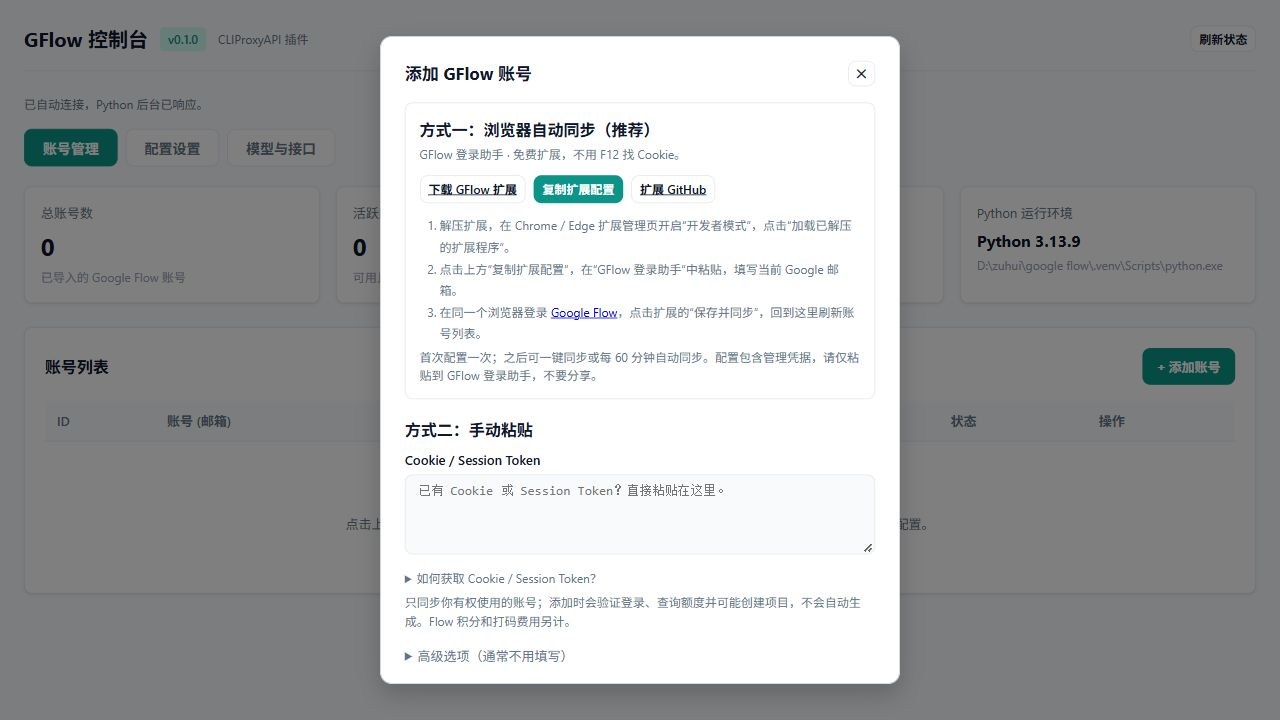
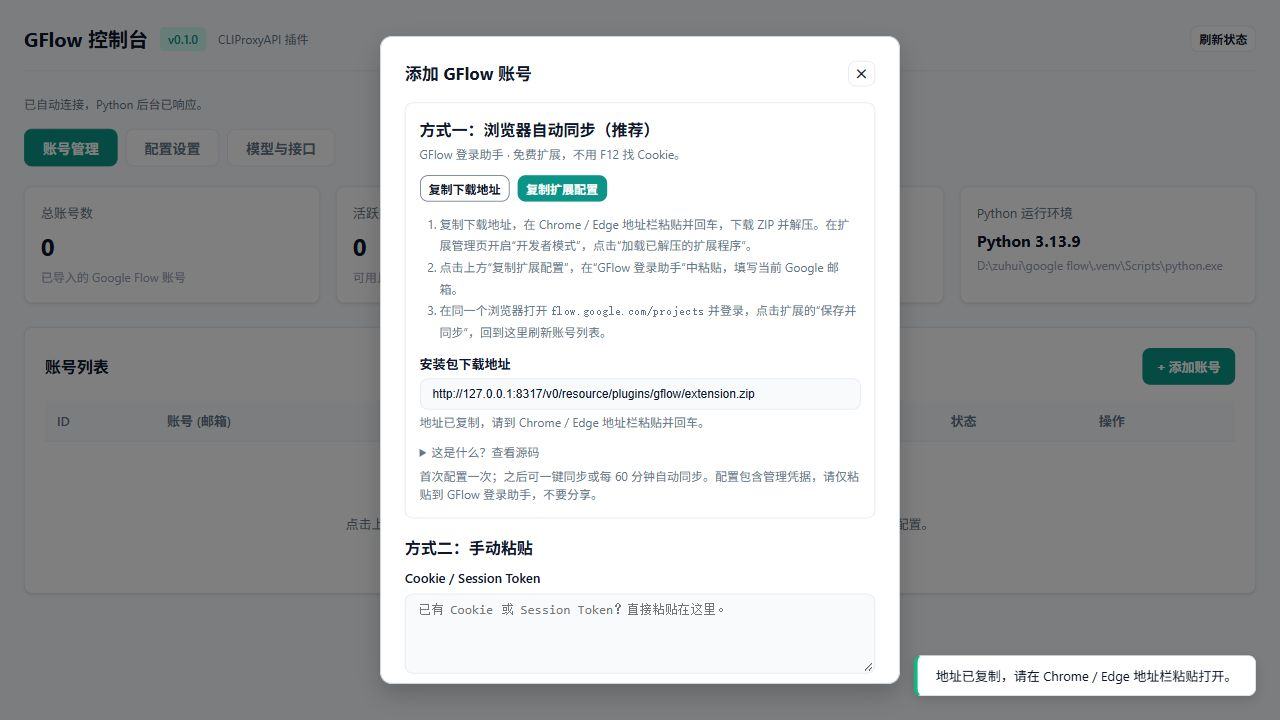
fix: make extension setup usable in embedded plugin windows

Changed region(s): [[0.3125, 0.2444, 0.6875, 0.7028], [0.3125, 0.7333, 0.6875, 0.9167], [0.6875, 0.8861, 1.0, 0.9778]]

diff --git a/static/manage.html b/static/manage.html
@@ -444,15 +444,25 @@
         <strong>方式一：浏览器自动同步（推荐）</strong>
         <p class="form-desc">GFlow 登录助手 · 免费扩展，不用 F12 找 Cookie。</p>
         <p style="display:flex;flex-wrap:wrap;gap:8px;margin:12px 0;">
-          <a class="btn btn-secondary btn-sm" href="/v0/resource/plugins/gflow/extension.zip" download>下载 GFlow 扩展</a>
+          <button class="btn btn-secondary btn-sm" type="button" onclick="copyExtensionLink(false)">复制下载地址</button>
           <button class="btn btn-primary btn-sm" type="button" onclick="copyExtensionConfig()">复制扩展配置</button>
-          <a class="btn btn-secondary btn-sm" href="https://github.com/daodeqing/cpa-plugin-GFlow/tree/main/browser-extension" target="_blank" rel="noopener noreferrer">扩展 GitHub</a>
         </p>
         <ol class="form-desc" style="padding-left:20px;line-height:1.8;">
-          <li>解压扩展，在 Chrome / Edge 扩展管理页开启“开发者模式”，点击“加载已解压的扩展程序”。</li>
+          <li>复制下载地址，在 Chrome / Edge 地址栏粘贴并回车，下载 ZIP 并解压。在扩展管理页开启“开发者模式”，点击“加载已解压的扩展程序”。</li>
           <li>点击上方“复制扩展配置”，在“GFlow 登录助手”中粘贴，填写当前 Google 邮箱。</li>
-          <li>在同一个浏览器登录 <a href="https://flow.google.com/projects" target="_blank" rel="noopener noreferrer">Google Flow</a>，点击扩展的“保存并同步”，回到这里刷新账号列表。</li>
+          <li>在同一个浏览器打开 <code>flow.google.com/projects</code> 并登录，点击扩展的“保存并同步”，回到这里刷新账号列表。</li>
         </ol>
+        <div id="extension-link-panel" hidden style="margin:10px 0;">
+          <label class="form-label" for="extension-public-url" id="extension-link-label">本机安装包下载地址</label>
+          <input id="extension-public-url" class="form-input" type="text" readonly onclick="this.select()" style="font-size:12px;" />
+          <p id="extension-link-feedback" class="form-desc" role="status" aria-live="polite"></p>
+        </div>
+        <details class="form-desc" style="line-height:1.8;">
+          <summary style="cursor:pointer;">这是什么？查看源码</summary>
+          <p>这是安装在 Chrome / Edge 中的免费浏览器助手，用于同步已登录的 Flow 账号。不是再次安装 EasyCPA 插件。</p>
+          <p>EasyCPA 内嵌窗口限制下载和新窗口跳转，请把地址粘贴到浏览器地址栏。</p>
+          <button class="btn btn-secondary btn-sm" type="button" onclick="copyExtensionLink(true)">复制源码与安装说明地址</button>
+        </details>
         <p class="form-desc">首次配置一次；之后可一键同步或每 60 分钟自动同步。配置包含管理凭据，请仅粘贴到 GFlow 登录助手，不要分享。</p>
       </section>
       <div class="form-group">
@@ -766,6 +776,26 @@
       renderModels(allModels.filter(m => m.id.toLowerCase().includes(q) || m.description.toLowerCase().includes(q)));
     }
 
+    async function copyExtensionLink(isSource) {
+      const url = isSource
+        ? 'https://github.com/daodeqing/cpa-plugin-GFlow/tree/main/browser-extension'
+        : window.location.origin + '/v0/resource/plugins/gflow/extension.zip';
+      const field = document.getElementById('extension-public-url');
+      const feedback = document.getElementById('extension-link-feedback');
+      document.getElementById('extension-link-panel').hidden = false;
+      document.getElementById('extension-link-label').textContent = isSource ? '源码与安装说明地址' : '安装包下载地址';
+      field.value = url;
+      try {
+        await navigator.clipboard.writeText(url);
+        feedback.textContent = '地址已复制，请到 Chrome / Edge 地址栏粘贴并回车。';
+        showToast('地址已复制，请在 Chrome / Edge 地址栏粘贴打开。');
+      } catch (_) {
+        field.focus();
+        field.select();
+        feedback.textContent = '自动复制被限制。地址已选中，请按 Ctrl+C，再到 Chrome / Edge 地址栏粘贴。';
+      }
+    }
+
     async function copyExtensionConfig() {
       if (!managementKey) return showToast('请等待自动连接完成后再复制。', 'error');
       const payload = {
@@ -786,6 +816,7 @@
       document.getElementById('token-cookies').value = '';
       document.getElementById('token-project-id').value = '';
       document.getElementById('token-remark').value = '';
+      document.getElementById('extension-link-panel').hidden = true;
       document.getElementById('add-modal').style.display = 'flex';
     }
     function closeAddTokenModal() {

diff --git a/tests/test_management_ui.py b/tests/test_management_ui.py
@@ -14,10 +14,10 @@ const elements = new Map();
 function element() {
   return { value: '', textContent: '', innerHTML: '', disabled: false, checked: false,
     style: {}, children: [], append(...nodes) { this.children.push(...nodes); },
-    replaceChildren(...nodes) { this.children = nodes; }, focus() {} };
+    replaceChildren(...nodes) { this.children = nodes; }, focus() {}, select() { this.selected = true; } };
 }
 const events = new Map(), requests = [];
-let mode = 'ok', hasSession = false, copiedConfig = '';
+let mode = 'ok', hasSession = false, copiedConfig = '', clipboardDenied = false;
 const location = { origin: 'http://127.0.0.1:8317', hash: '#gflow_session=test-ticket', pathname: '/v0/resource/plugins/gflow/manage', search: '' };
 const context = vm.createContext({
   document: {
@@ -26,7 +26,7 @@ const context = vm.createContext({
   },
   window: { location, history: { replaceState() { location.hash = ''; } },
     addEventListener(name, fn) { events.set(name, fn); } },
-  navigator: { clipboard: { async writeText(value) { copiedConfig = value; } } },
+  navigator: { clipboard: { async writeText(value) { if (clipboardDenied) throw new Error('clipboard denied'); copiedConfig = value; } } },
   console, AbortController, URLSearchParams, setTimeout, clearTimeout,
   fetch: async (path, opts) => {
     requests.push({ path, opts });
@@ -68,6 +68,23 @@ const el = id => context.document.getElementById(id);
   assert.equal(pairing.apiUrl, 'http://127.0.0.1:8317/v0/management/plugins/gflow/api/extension-sync');
   assert.ok(requests.every(r => !r.path.includes('test-management-secret') && !r.path.includes('test-ticket')));
   console.log('PASS startup automatically connects without a key input or secret in URL');
+  const beforeLink = requests.length;
+  await context.copyExtensionLink(false);
+  assert.ok(copiedConfig === 'http://127.0.0.1:8317/v0/resource/plugins/gflow/extension.zip');
+  assert.equal(el('extension-public-url').value, copiedConfig);
+  assert.equal(el('extension-link-panel').hidden, false);
+  assert.match(el('extension-link-feedback').textContent, /已复制/);
+  await context.copyExtensionLink(true);
+  assert.ok(copiedConfig.endsWith('/tree/main/browser-extension'));
+  clipboardDenied = true;
+  await context.copyExtensionLink(false);
+  assert.equal(el('extension-public-url').selected, true);
+  assert.ok(el('extension-link-feedback').textContent.includes('Ctrl+C'));
+  assert.ok(!el('extension-public-url').value.includes('test-management-secret'));
+  assert.equal(requests.length, beforeLink);
+  clipboardDenied = false;
+  console.log('PASS embedded link controls copy public URLs with manual fallback');
+
   await context.initializeManagement();
   assert.equal(el('stat-python-ver').textContent, 'Python 3.13.9');
   console.log('PASS page refresh uses the authenticated browser session');
@@ -119,7 +136,7 @@ class ManagementUITest(unittest.TestCase):
             capture_output=True, text=True, encoding="utf-8", timeout=20,
         )
         self.assertEqual(result.returncode, 0, result.stdout + result.stderr)
-        self.assertEqual(result.stdout.count("PASS "), 7, result.stdout)
+        self.assertEqual(result.stdout.count("PASS "), 8, result.stdout)
         print(result.stdout, end="")
 
 if __name__ == "__main__":

diff --git a/README.md b/README.md
@@ -4,9 +4,11 @@
 
 ## 添加账号：推荐浏览器同步
 
-1. 在 GFlow 点击“添加账号”，下载 **GFlow 登录助手** 并解压。在 Chrome / Edge 扩展管理页开启“开发者模式”，加载解压后的文件夹。
+1. 在 GFlow 点击“添加账号”，点击“复制下载地址”，在 Chrome / Edge 地址栏粘贴并回车，下载 **GFlow 登录助手** 并解压。在 Chrome / Edge 扩展管理页开启“开发者模式”，加载解压后的文件夹。
 2. 在同一窗口点击“复制扩展配置”。打开浏览器扩展，粘贴配置，填写当前 Google 邮箱。
 3. 在该浏览器登录 Google Flow，点击扩展的“保存并同步”，返回 GFlow 刷新账号列表。
+
+EasyCPA 内嵌窗口限制直接下载和新窗口跳转，因此下载和源码入口改为复制地址；下载地址直接使用本机已安装的扩展包，无需访问 GitHub。复制被限制时会显示可手动复制的地址。
 
 之后可一键同步，或每 60 分钟自动同步；自动同步需要浏览器运行。多个 Google 账号请使用不同的浏览器配置文件。
 

diff --git a/README.zh-CN.md b/README.zh-CN.md
@@ -4,9 +4,11 @@
 
 ## 添加账号：推荐浏览器同步
 
-1. 在 GFlow 点击“添加账号”，下载 **GFlow 登录助手** 并解压。在 Chrome / Edge 扩展管理页开启“开发者模式”，加载解压后的文件夹。
+1. 在 GFlow 点击“添加账号”，点击“复制下载地址”，在 Chrome / Edge 地址栏粘贴并回车，下载 **GFlow 登录助手** 并解压。在 Chrome / Edge 扩展管理页开启“开发者模式”，加载解压后的文件夹。
 2. 在同一窗口点击“复制扩展配置”。打开浏览器扩展，粘贴配置，填写当前 Google 邮箱。
 3. 在该浏览器登录 Google Flow，点击扩展的“保存并同步”，返回 GFlow 刷新账号列表。
+
+EasyCPA 内嵌窗口限制直接下载和新窗口跳转，因此下载和源码入口改为复制地址；下载地址直接使用本机已安装的扩展包，无需访问 GitHub。复制被限制时会显示可手动复制的地址。
 
 之后可一键同步，或每 60 分钟自动同步；自动同步需要浏览器运行。多个 Google 账号请使用不同的浏览器配置文件。
 
